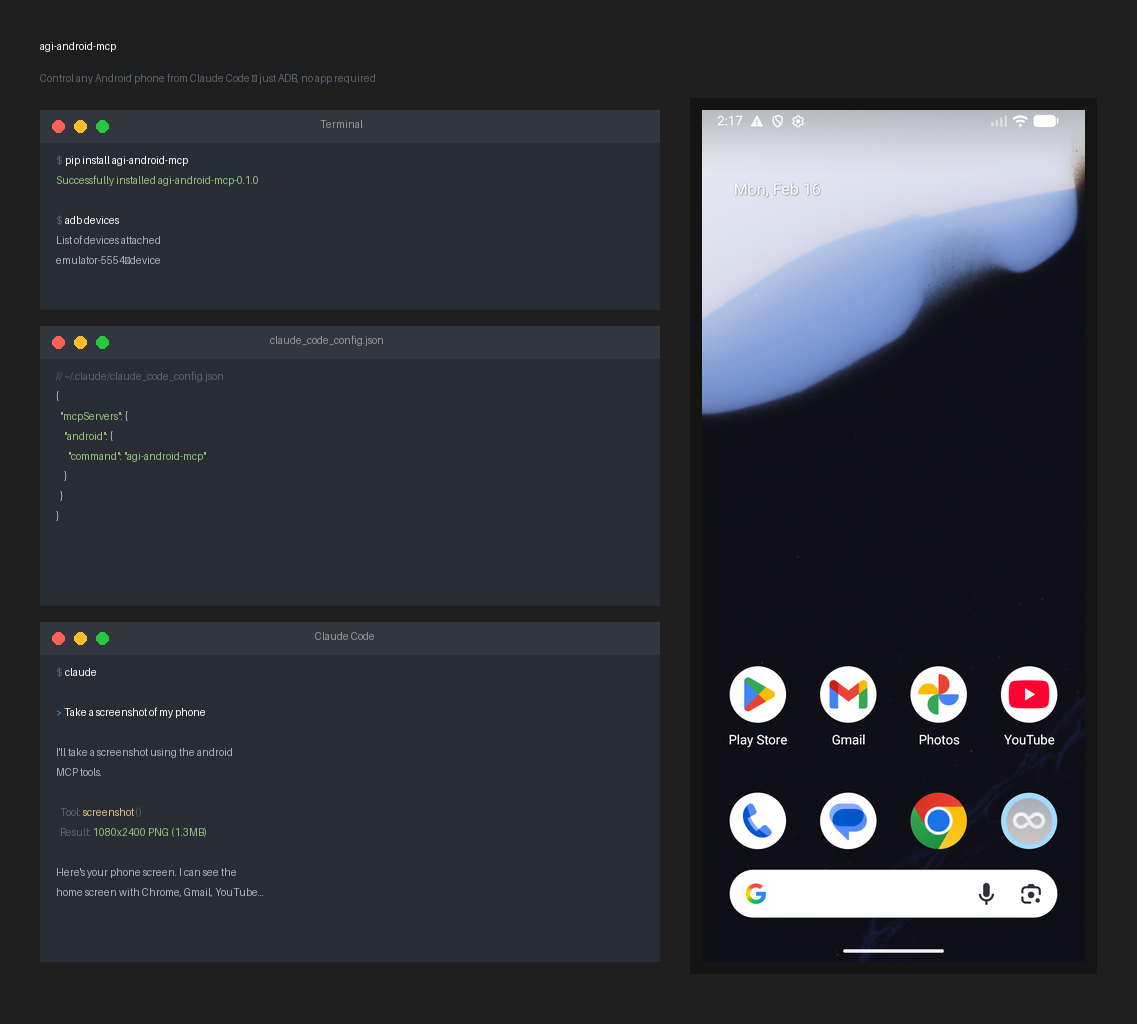
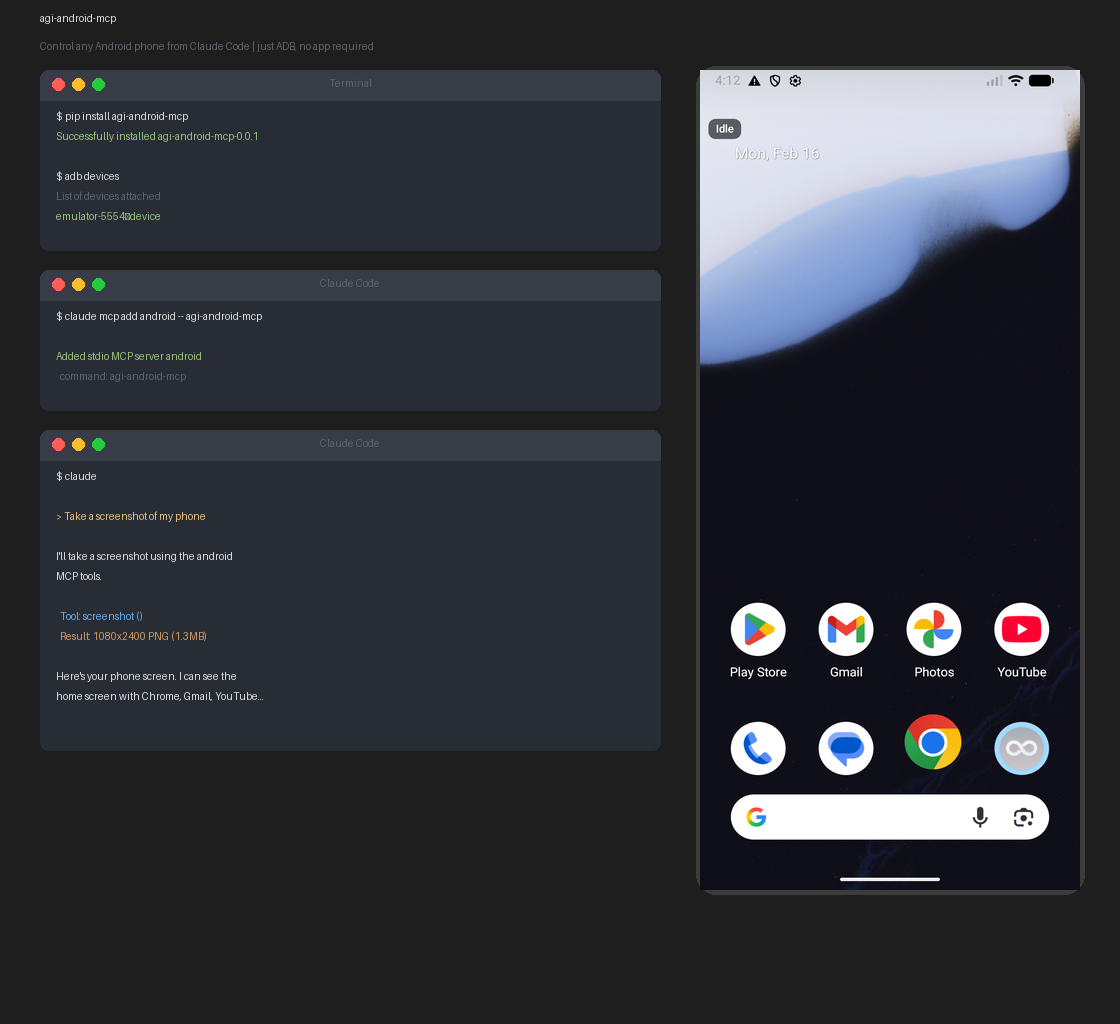
fix(docs): use correct claude mcp add command instead of wrong config path
~/.claude/claude_code_config.json doesn't exist. The correct way to add
an MCP server to Claude Code is `claude mcp add android -- agi-android-mcp`.

diff --git a/README.md b/README.md
@@ -31,16 +31,8 @@ adb devices
 
 ### 3. Add to Claude Code
 
-Add to `~/.claude/claude_code_config.json`:
-
-```json
-{
-  "mcpServers": {
-    "android": {
-      "command": "agi-android-mcp"
-    }
-  }
-}
+```bash
+claude mcp add android -- agi-android-mcp
 ```
 
 Restart Claude Code. That's it. Tell Claude:
